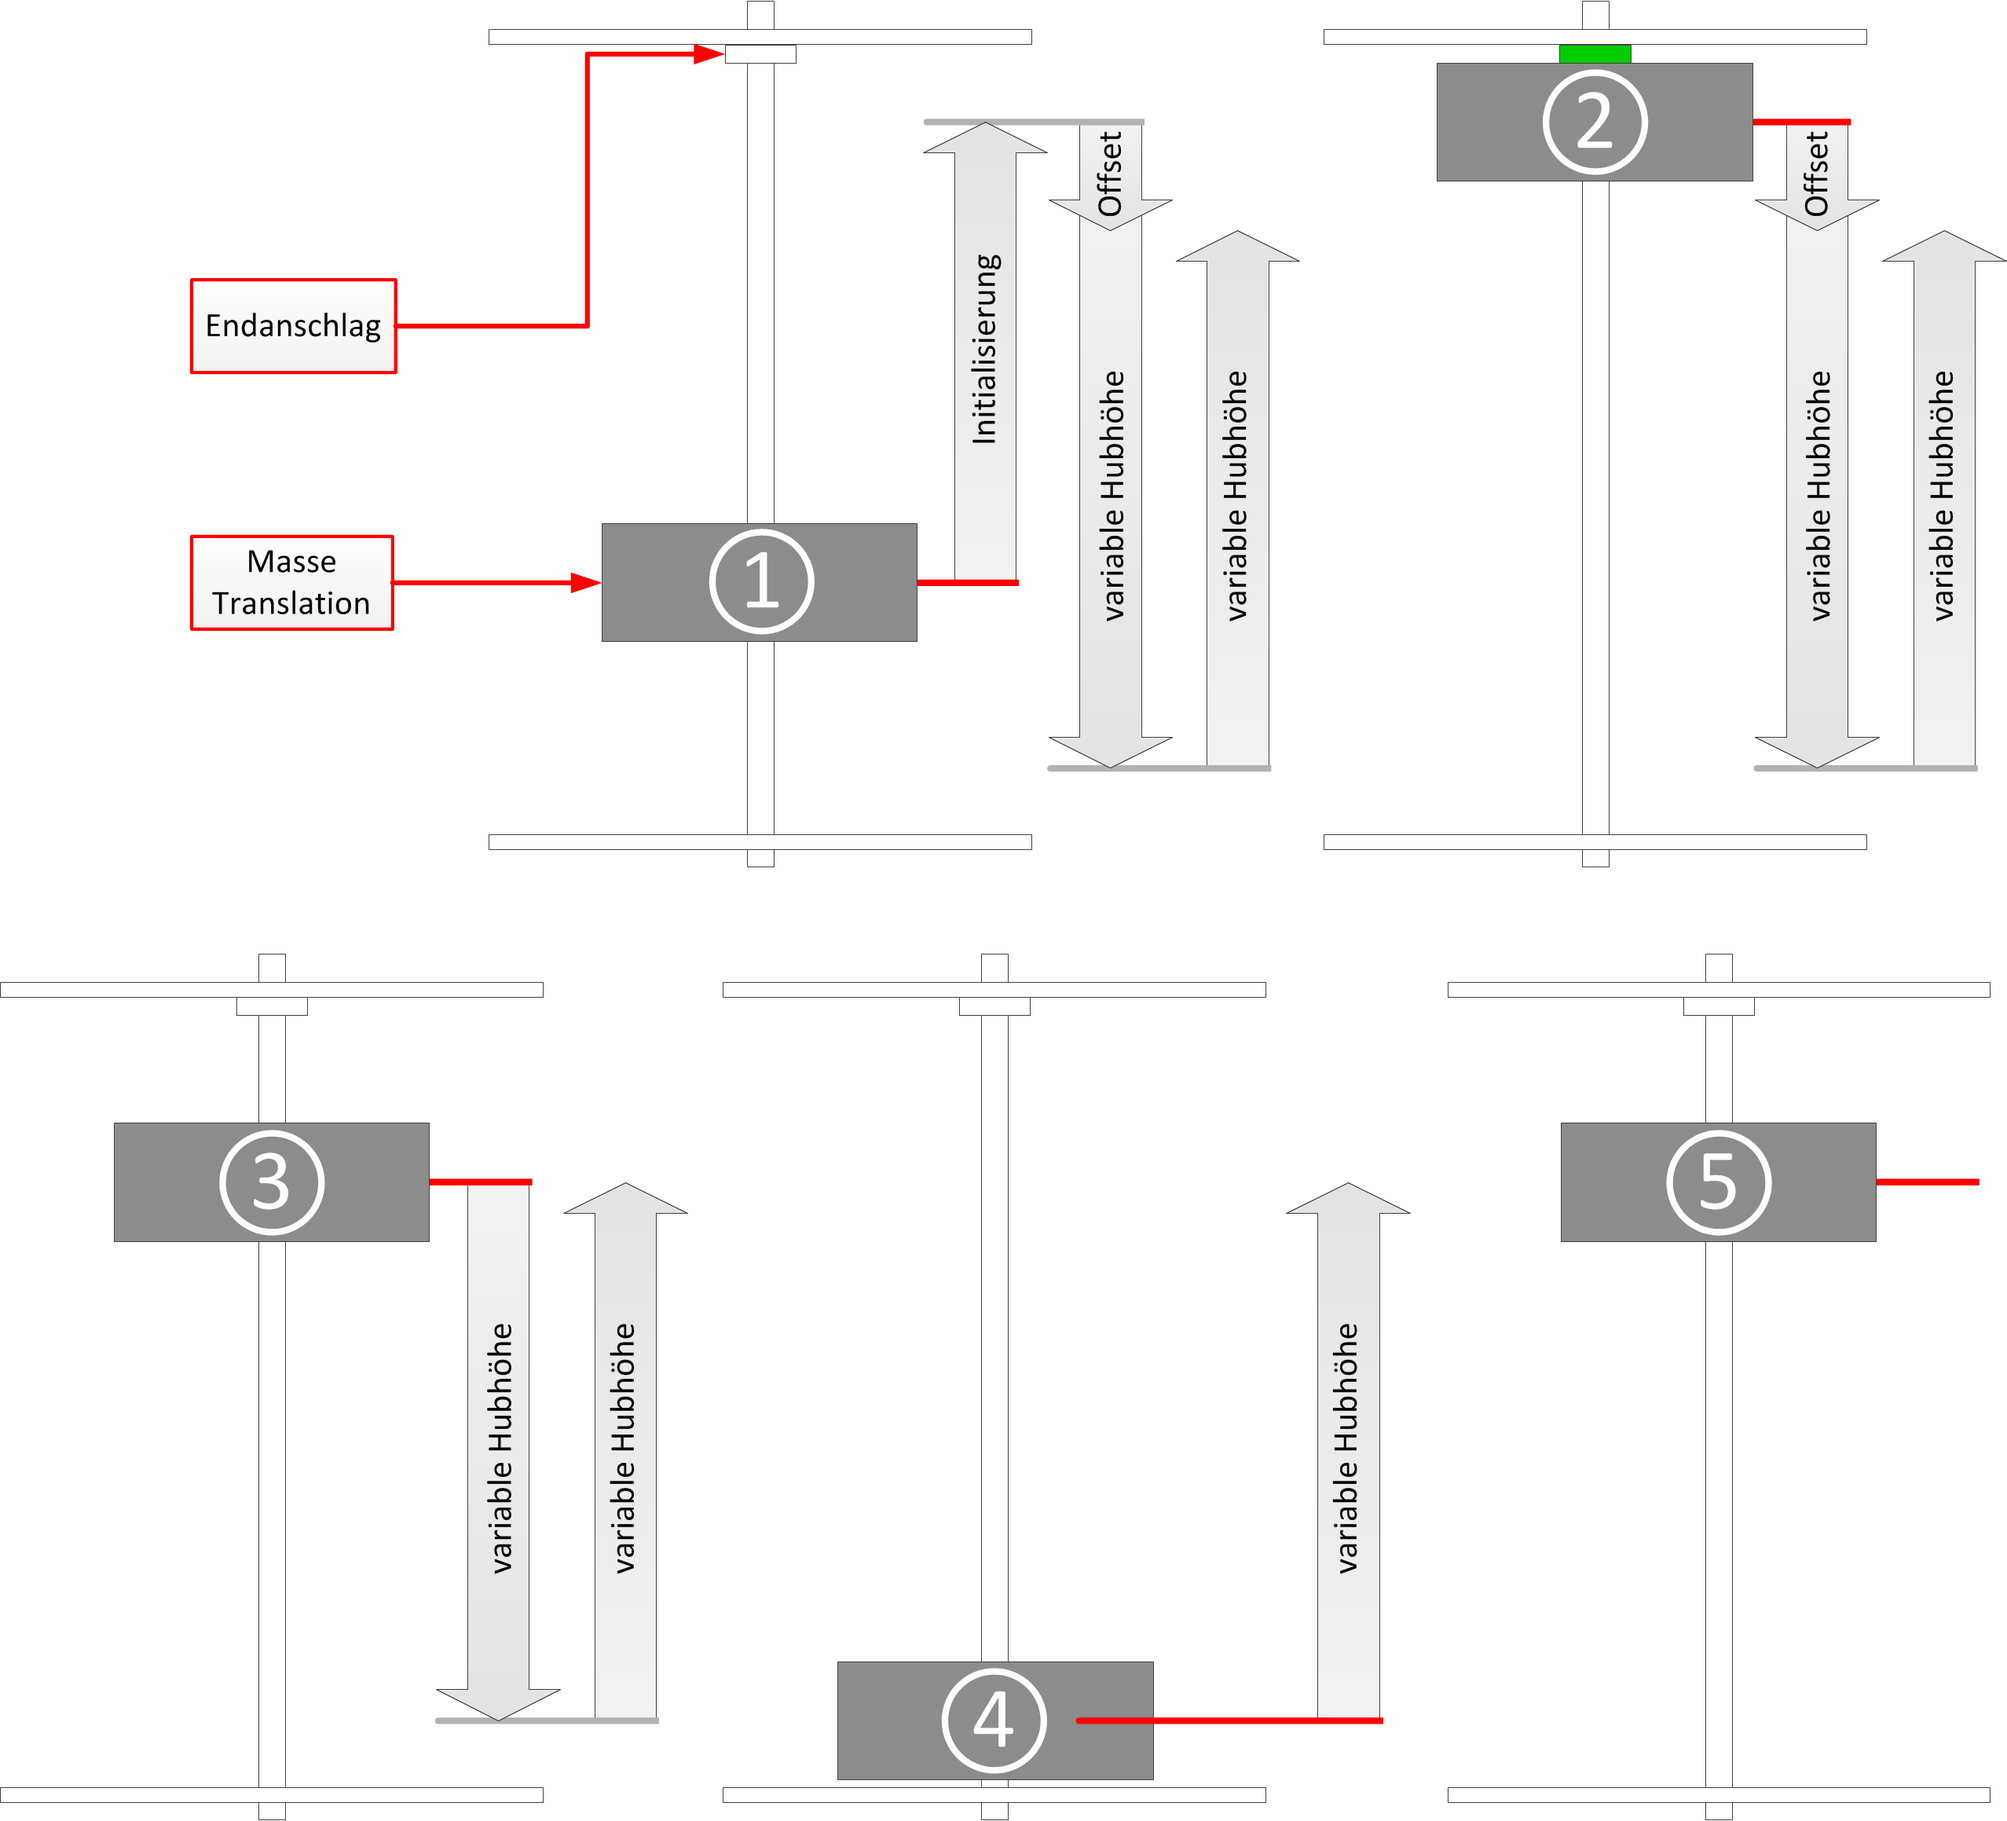
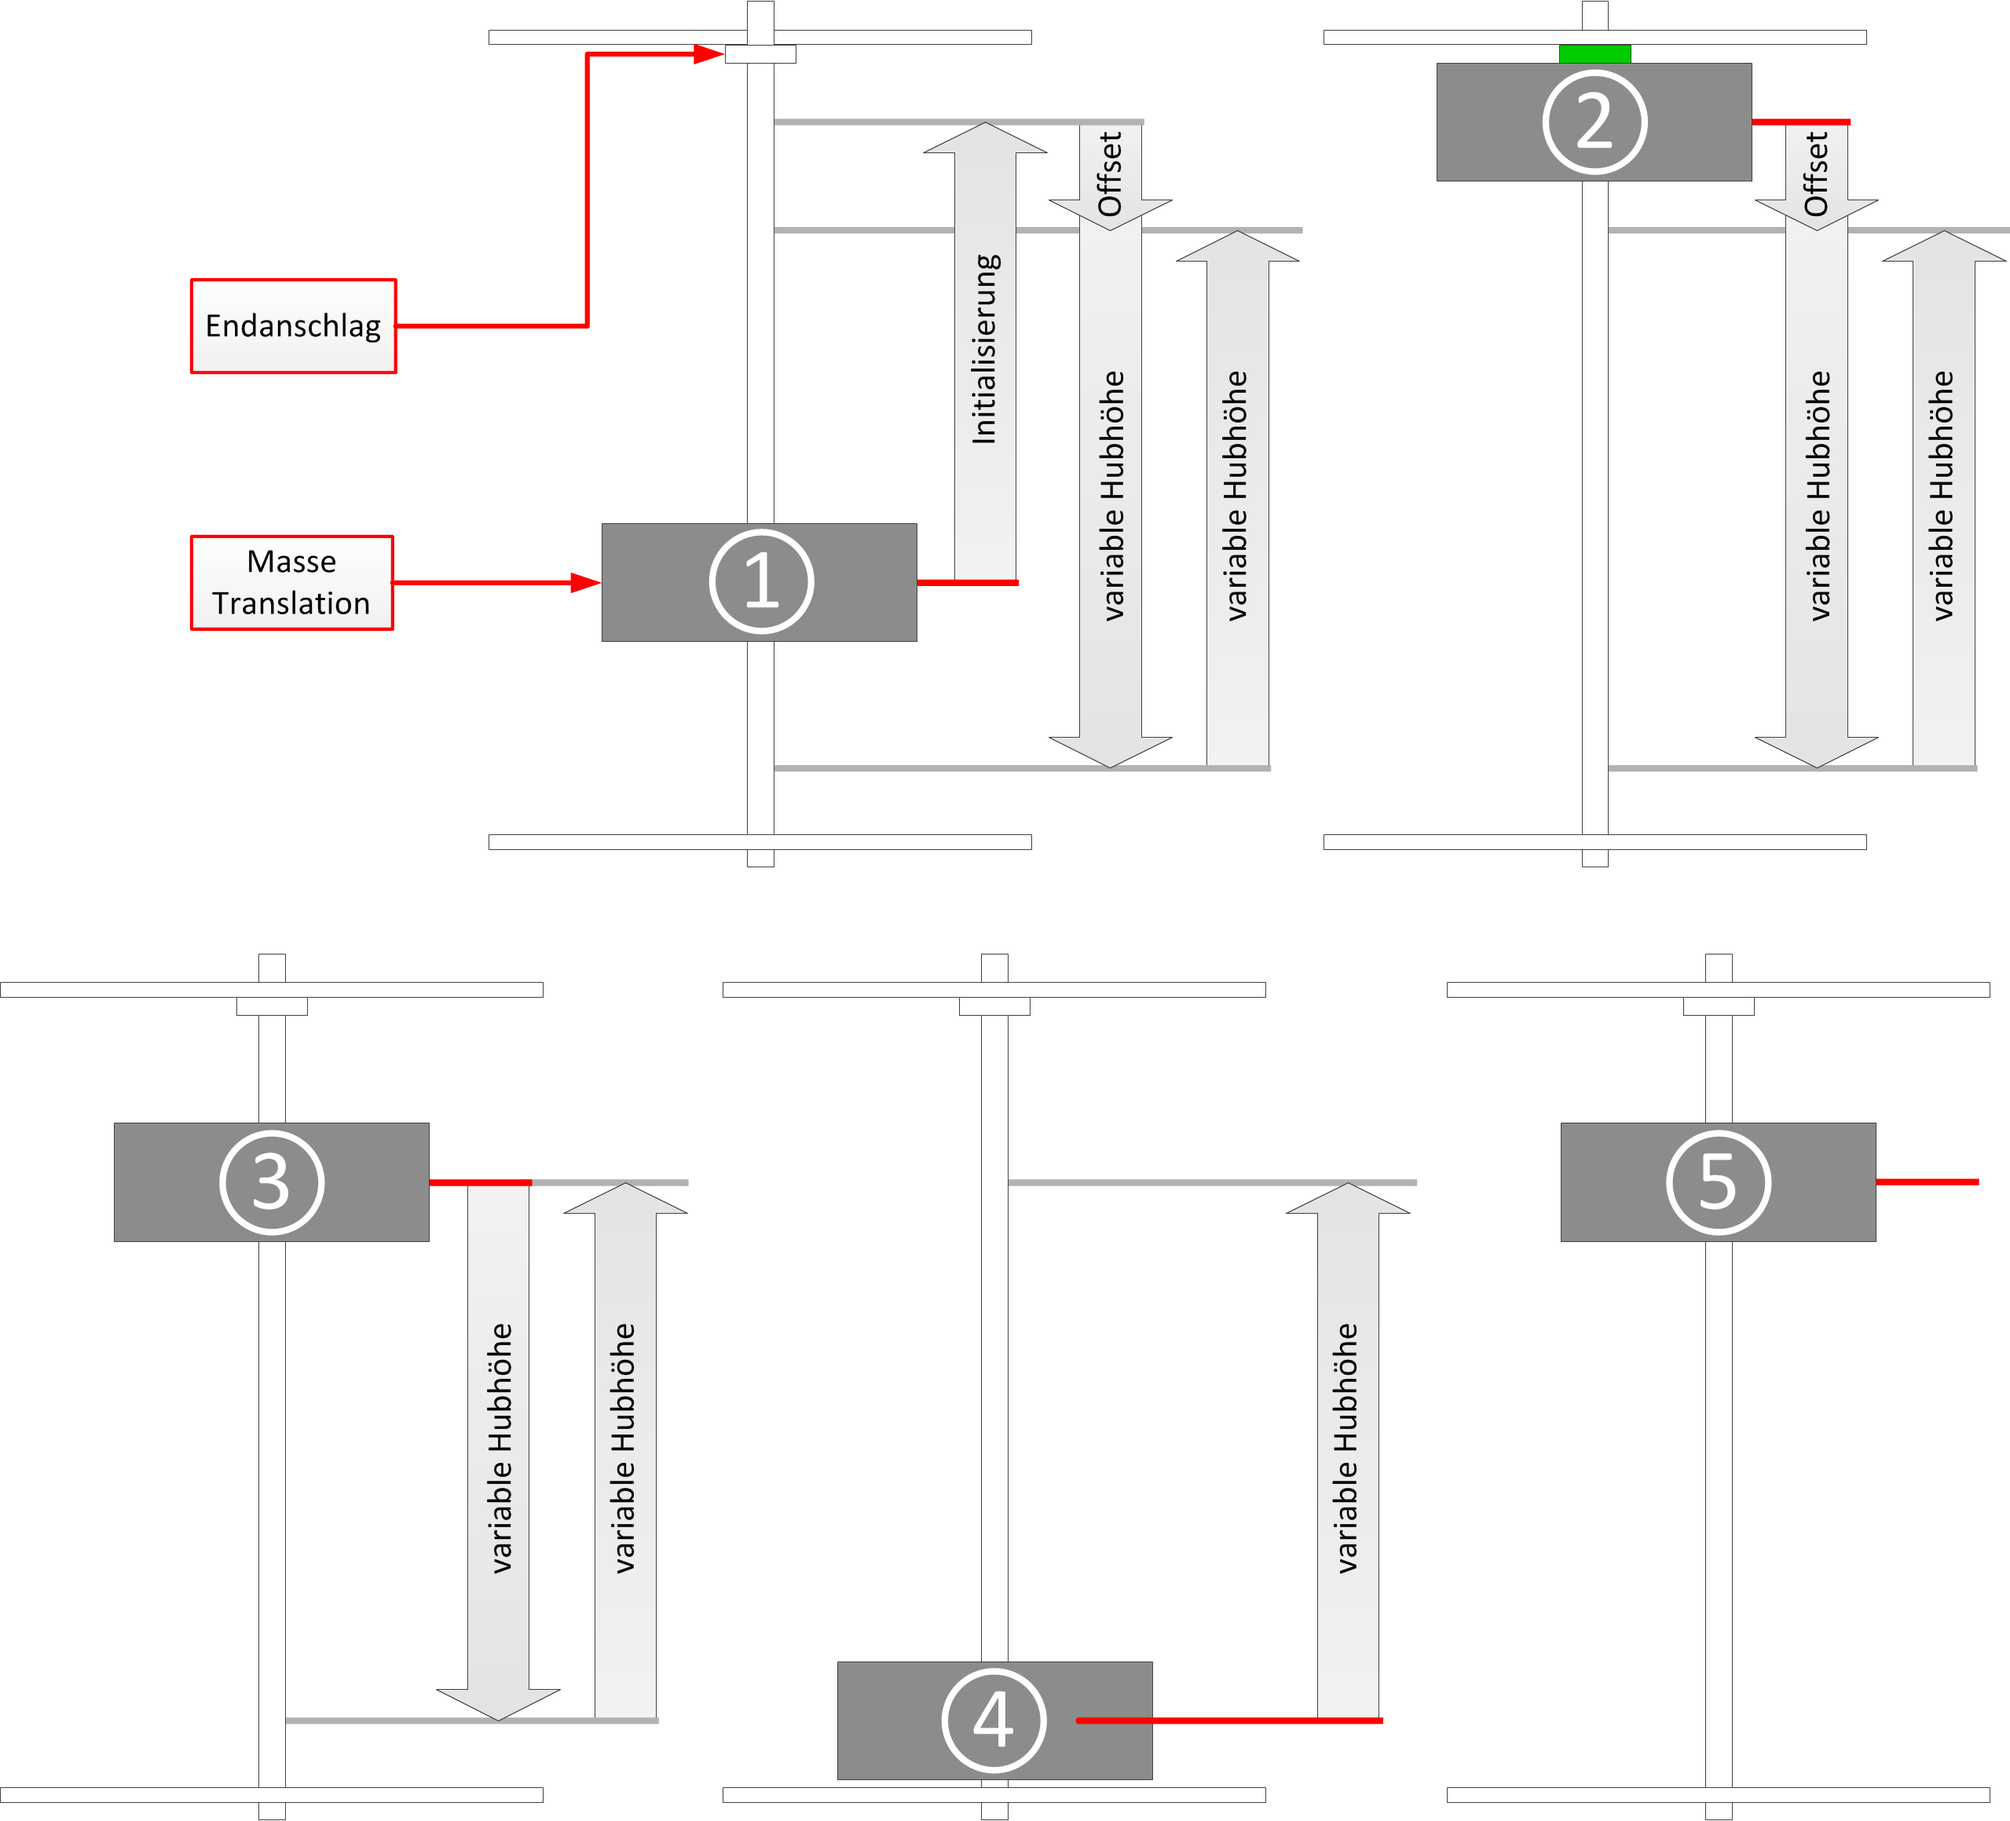
- added picture Prozessablauf_Verstellmechanik

diff --git a/Kapitel/6_Umsetzung/6.8_Softwarestruktur.tex b/Kapitel/6_Umsetzung/6.8_Softwarestruktur.tex
@@ -182,7 +182,7 @@ Für die Initialisierung der Verstellmechanik wird der Motor langsam in eine Ric
 	\label{fig:ION_Motion_Strommessung}
 \end{figure}
 
-In Abbildung \ref{fig:ION_Motion_Strommessung} ist der Stromverlauf des Pololu Getriebemotors mit Übersetzung 378:1 abgebildet. Der Motor wurde im Leerlauf ohne Last betrieben, mit einer konstanten Last gebremst und anschliessend wieder entlastet. Dabei wurde der Motor mit einem geringen PWM Tastgrad betrieben um keinen zu grossen Laststrom zu generieren.\\
+In Abbildung \ref{fig:ION_Motion_Strommessung} ist der Stromverlauf des Pololu Getriebemotors mit Übersetzung 378:1 abgebildet. Die Messung wurden mit der Software Segger J-Scope durchgeführt. Der Motor wurde im Leerlauf ohne Last betrieben, mit einer konstanten Last gebremst und anschliessend wieder entlastet. Dabei wurde der Motor mit einem geringen PWM Tastgrad betrieben um keinen zu grossen Laststrom zu generieren.\\
 Auf den beiden Graphen ist ein deutlicher Stromanstieg zu erkennen. Der linke Graph zeigt dabei die gemessenen Stromwerte, der rechte die Mittelwerte der letzten 5 Messwerte. Der Vorteil der Mittelwertbildung kommt vor allem bei einer konstanten Belastung des Motors zum Vorschein, da hier die gemessenen Stromwerte stark fluktuieren und keine akkurate Messung zulassen. Die Stromkurven sind als qualitative Angaben zu verstehen, der Fokus liegt auf der Glättung der Messwerte.
 
 

diff --git a/Kapitel/6_Umsetzung/6.4_Verstellmechanik.tex b/Kapitel/6_Umsetzung/6.4_Verstellmechanik.tex
@@ -34,3 +34,12 @@ Die Bewegung der Verstellmechanik ist in Abbildung \ref{fig:motion_vm} dargestel
 	\end{figure}
 \subsubsection{Material und Fertigungsverfahren der Kulissen}
 Wie schon erläutert, ist ein geringes Gewicht der beschleunigten Masse anzustreben. Gemäss Berechnungen soll die beschleunigte Masse maximal 1kg betragen. Um diese Anforderung zu erfüllen, werden die Kulissen (Punkte 2 und 3 aus Abb. \ref{fig:motion_vm}) aus 6mm dickem Aluminiumblech gefertigt. Auch die Teile werden mittels \textbf{Laserschneidmaschine} hergestellt. Weiter erspart diese Wahl das Umrüsten der Maschine und hält die Kosten auf einem Minimum (\textbf{nochmals nötig? Evtl. sinnvoller ein Kapitel 'Materialwahl' zu machen und einmal dafür ausführlich darauf eingehen}).
+
+\subsubsection{Prozessablauf}
+
+\begin{figure}[H]
+	\includegraphics[width=1\textwidth]{Illustrationen/6-Umsetzung/Prozessablauf_Verstellmechanik.png}
+	\caption{Prozessablauf der Verstellmechanik}
+	\label{fig:Prozessablauf_Verstellmechanik}
+\end{figure}
+

diff --git a/Kapitel/6_Umsetzung/6.2_Vereinzelung.tex b/Kapitel/6_Umsetzung/6.2_Vereinzelung.tex
@@ -64,7 +64,7 @@ Die Vereinigung von verschiedensten Funktionen in der Trommel (Integralbauweise)
 Das System initialisiert sich nach einem Neustart einmalig und ist dann für den Betrieb bereit. Der ganze Prozess der Vereinzelung ist in Abb. \ref{fig:Ansteuerung_Vereinzelung} illustriert.  Der Prozess wurde dabei in vier Etappen unterteilt welche mit den Ziffern 1... 4 nummeriert sind.
 
 \begin{figure}[H]
-	\includegraphics[width=0.9\textwidth]{Illustrationen/6-Umsetzung/Ansteuerung_Vereinzelung.png}
+	\includegraphics[width=0.9\textwidth]{Illustrationen/6-Umsetzung/Prozessablauf_Vereinzelung.png}
 	\caption{Prozessablauf der Vereinzelung}
 	\label{fig:Ansteuerung_Vereinzelung}
 \end{figure}
